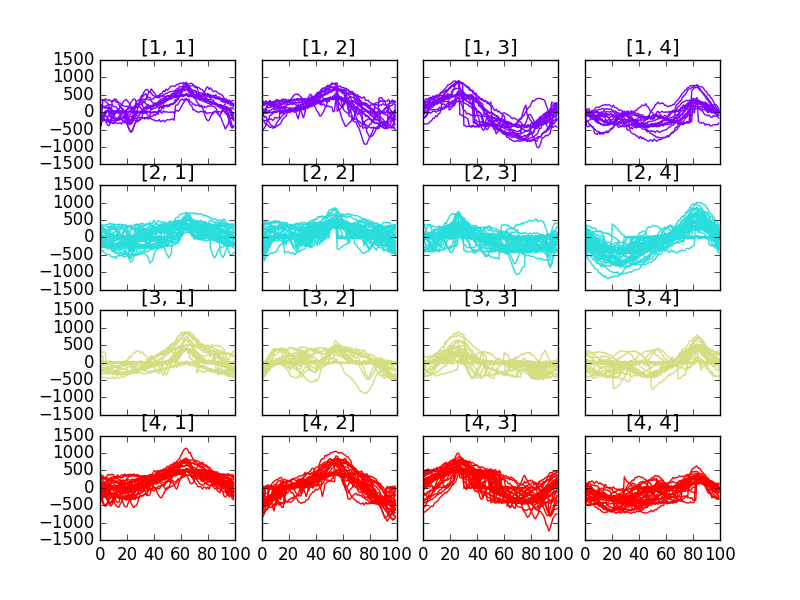
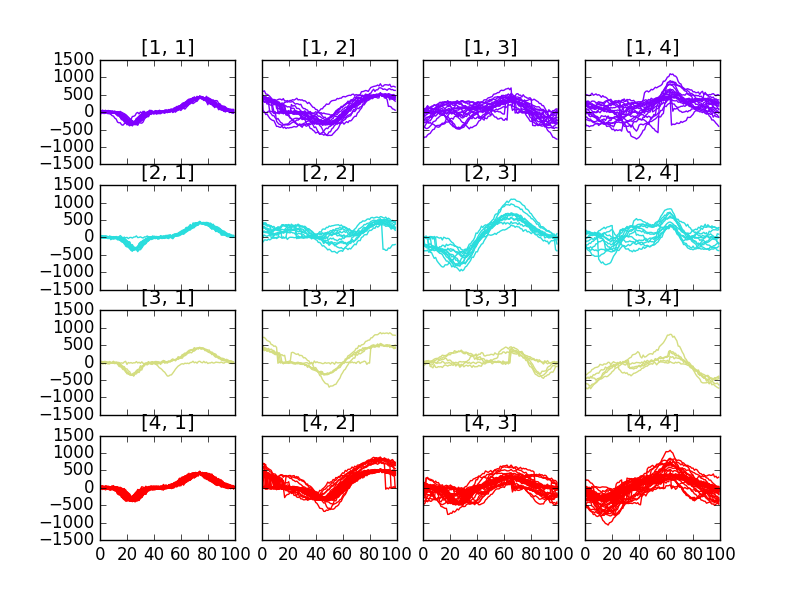
delete colvolution
delete convolution, use original spike location

diff --git a/data_initialization_spikeSorting.py b/data_initialization_spikeSorting.py
@@ -4,7 +4,8 @@ import random as rand
 from matplotlib import pyplot as plt
 from matplotlib.pyplot import cm 
 from peak_detect import detect_peaks
-
+import sys
+sys.dont_write_bytecode = True
 
 def spike_timeline_generator(time,interval_parameter,spike_len):
 # Initilization
@@ -105,7 +106,7 @@ def multi_electrons_signal_generator(num_cell,num_electron,spike_shape_parameter
 	
 	# initialize list to store timeline for each cell
 	timeline_list=[]
-
+	num_spike=0
 	for i in range(num_cell):
 
 		# Generate different timeline for different cell
@@ -114,6 +115,7 @@ def multi_electrons_signal_generator(num_cell,num_electron,spike_shape_parameter
 		
 		# store timeline to list
 		timeline_list.append(cell_timeline)
+		num_spike=num_spike+len(cell_timeline)-1
 		
 		# generate signal for each cell of each electron
 		
@@ -144,12 +146,12 @@ def multi_electrons_signal_generator(num_cell,num_electron,spike_shape_parameter
 		signal=signal_matrix.sum(axis=0)
 	
 
-	return signal,timeline_list,signal_matrix,delay_matrix
+	return signal,timeline_list,signal_matrix,delay_matrix,num_spike
 
 
-def plot_data(num_cell,num_electron,signal_matrix,signal,spike_shape_parameter,boolean,spike_len):
+def plot_data(num_cell,num_electron,signal_matrix,signal,spike_shape_parameter,boolean,spike_len,plot_size):
 
-
+	
 	color1=cm.rainbow(np.linspace(0,1,num_cell))
 
 	num_eachElectron=boolean.sum(axis=0)
@@ -162,6 +164,7 @@ def plot_data(num_cell,num_electron,signal_matrix,signal,spike_shape_parameter,b
 		for j in range(num_cell):
 			if(boolean[j,i]!=0):
 				signal_block=np.array(signal_matrix[j,i])
+				signal_block=signal_block[0:plot_size]
 					#signal=signal[0:10000]
 			else:
 				signal_block=0
@@ -176,6 +179,7 @@ def plot_data(num_cell,num_electron,signal_matrix,signal,spike_shape_parameter,b
 	f2,ax2=plt.subplots(num_electron,sharex=True, sharey=True)
 	for i in range(num_electron):
 		electron_signal=signal[i]
+		electron_signal=electron_signal[0:plot_size]
 		ax2[i].plot(electron_signal,color='b')
 		ax2[i].set_title('Signals of Electron %s' %(i))
 		
@@ -213,10 +217,46 @@ def plot_data(num_cell,num_electron,signal_matrix,signal,spike_shape_parameter,b
 
 
 
+def process_aligned_signal2(signal,timeline_list,num_spike,spike_len):
+
+	# initialization
+	num_electron=signal.shape[0]
+	num_cell=len(timeline_list)
+	aligned_spikes=np.zeros((num_spike,spike_len*num_electron))
+	label=[]
+	color=cm.rainbow(np.linspace(0,1,num_cell))
+
+	ite=0
+
+	for index in range(num_cell):
+		spike_loc=timeline_list[index]
+		spike_loc=spike_loc[0:-2]
+		for location in spike_loc:
+			aligned_spikes[ite]=signal[:,location:location+spike_len].flatten()
+			ite=ite+1
+			label.append(index)
+
+	# choose one row as rolling benchmark
+	k=rand.randint(0,num_spike-1)
+	max_location=aligned_spikes[k].argmax(axis=0)
+
+	print(label)
+	# roll other rows according to this information
+	for num in range(num_spike):
+		spike_max_location=aligned_spikes[num].argmax(axis=0)
+		distance=max_location-spike_max_location
+		aligned_spikes[num]=np.roll(aligned_spikes[num],distance)
+		plt.plot(aligned_spikes[num])
+		plt.show()
+	
+	return aligned_spikes,label
 
 
 
-def process_aligned_signal(signal,timeline_list,threshold,spike_len,window_height):
+
+
+
+def process_aligned_signal(signal,timeline_list,num_spike,threshold,spike_len,window_height):
 	
 
 	# get number of electron
@@ -229,23 +269,25 @@ def process_aligned_signal(signal,timeline_list,threshold,spike_len,window_heigh
 
 	# take convolution of the first row of matrix or not?...
 
-	i=0
-	spike1=signal[i]
-	signal_abs=map(abs,spike1)
+	# i=0
+	# spike1=signal[i]
+	# signal_abs=map(abs,spike1)
 	
 
-	weights = np.repeat(window_height, spike_len)
-	convolution=np.convolve(weights,signal_abs,'same')
-	convolution=convolution/spike_len
+	# weights = np.repeat(window_height, spike_len)
+	# convolution=np.convolve(weights,signal_abs,'same')
+	# convolution=convolution/spike_len
 
 	# get information of spike location
-	spike_loc=detect_peaks(convolution, mph=threshold, mpd=spike_len, show=False)
+	#spike_loc=detect_peaks(convolution, mph=threshold, mpd=spike_len, show=False)
 
 
 	# Initialization
-	m=len(spike_loc)
+	#m=len(spike_loc)
+	m=num_spike
 	n=spike_len
 	
+
 	# initialize empty 3D array for final aligned matrix
 	final_matrix=np.zeros((num_electron,m,n))
 	final_matrix_ecud=np.zeros((m,1))
@@ -343,7 +385,7 @@ class data_initialization_spikeSorting:
 
 	def signal_generator(self,overlap_level,noise_level,boolean):
 		
-		self.signal,self.timeline_list,self.signal_matrix,self.delay_matrix= \
+		self.signal,self.timeline_list,self.signal_matrix,self.delay_matrix,self.num_spike= \
 		multi_electrons_signal_generator(self.num_cell,self.num_electron,self.spike_shape_parameter,self.time,self.delay,overlap_level,noise_level,boolean,self.spike_len)
 
 		self.bool=boolean
@@ -353,19 +395,25 @@ class data_initialization_spikeSorting:
 
 	def align_signal(self):
 		#To do 
+		return self
+
+
+
+
+	def get_aligned_signal(self):
+
+		self.alinged_spikes,self.label=process_aligned_signal2(self.signal,self.timeline_list,self.num_spike,self.spike_len)
 
 		return self
 
 
-	def get_aligned_signal(self,threshold=80,window_height=2):
-
-		self.aligned_matrix_3D,self.aligned_matrix_2D,self.spike_loc=process_aligned_signal(self.signal,self.timeline_list,threshold,self.spike_len,window_height)
-		
-		return self
+	# def get_aligned_signal(self,threshold=80,window_height=2):
+	# 	self.aligned_matrix_3D,self.aligned_matrix_2D,self.spike_loc=process_aligned_signal(self.signal,self.timeline_list,threshold,self.spike_len,window_height)
+	# 	return self
 
 
 	def plot(self):
-		plot_data(self.num_cell,self.num_electron,self.signal_matrix,self.signal,self.spike_shape_parameter,self.bool,self.spike_len)
+		plot_data(self.num_cell,self.num_electron,self.signal_matrix,self.signal,self.spike_shape_parameter,self.bool,self.spike_len,plot_size=1500)
 
 
 

diff --git a/main.py b/main.py
@@ -4,46 +4,46 @@ from Kmeans_spikeDetection import Kmeans_spikeDetection
 from data_initialization_spikeSorting import data_initialization_spikeSorting
 from sklearn import cluster, datasets
 from matplotlib import pyplot as plt
+import sys
 
 def main():
+	sys.dont_write_bytecode = True
 
 # initialize data
-	num_cell=4
-	num_electron=4
+	num_cell=2
+	num_electron=2
 	overlap_level=300
 	noise_level=5
 
-	data=data_initialization_spikeSorting(num_cell=num_cell,num_electron=num_electron,time=30000,delay=False)
+	data=data_initialization_spikeSorting(num_cell=num_cell,num_electron=num_electron,time=3000,delay=False)
 	data.data_init()
 	
-	boolean=np.array([[1,1,1,1],[0,1,1,1],[0,0,1,1],[0,0,0,1]])
+	boolean=np.array([[1,1,1,1],[1,1,1,1],[1,1,1,1],[1,1,1,1]])
 
-	boolean=np.ones((num_cell,num_electron))
-
-
+	#boolean=np.ones((num_cell,num_electron))
 	data.signal_generator(overlap_level=overlap_level,noise_level=noise_level,boolean=boolean)
-	data.plot()
-	data.get_aligned_signal()
-
-##############################################################
-# Apply k-means
-
-	kMeans=Kmeans_spikeDetection(num_cluster=num_cell,iterations=50)
-
-	kMeans.fit(data.aligned_matrix_3D,distance_mode='SumEculidean')
-	kMeans.plotCluster(data.aligned_matrix_3D,kMeans.label)
-
-	kMeans.fit(data.aligned_matrix_3D,distance_mode='MinEculidean')
-	kMeans.plotCluster(data.aligned_matrix_3D,kMeans.label)
-
-	kMeans.fit(data.aligned_matrix_2D,distance_mode='Eculidean')
-	kMeans.plotCluster(data.aligned_matrix_3D,kMeans.label)
-
 	
-	k_means = cluster.KMeans(n_clusters=num_cell)
-	k_means.fit(data.aligned_matrix_2D)
-	kMeans.distance_mode='sklearn'
-	kMeans.plotCluster(data.aligned_matrix_3D,k_means.labels_)
+	data.plot()
+ 	data.get_aligned_signal()
+
+# ##############################################################
+# # Apply k-means
+
+# 	kMeans=Kmeans_spikeDetection(num_cluster=num_cell,iterations=50)
+
+# 	kMeans.fit(data.aligned_matrix_3D,distance_mode='SumEculidean')
+# 	kMeans.plotCluster(data.aligned_matrix_3D,kMeans.label)
+
+# 	kMeans.fit(data.aligned_matrix_3D,distance_mode='MinEculidean')
+# 	kMeans.plotCluster(data.aligned_matrix_3D,kMeans.label)
+
+# 	kMeans.fit(data.aligned_matrix_2D,distance_mode='Eculidean')
+# 	kMeans.plotCluster(data.aligned_matrix_3D,kMeans.label)
+
+# 	k_means = cluster.KMeans(n_clusters=num_cell)
+# 	k_means.fit(data.aligned_matrix_2D)
+# 	kMeans.distance_mode='sklearn'
+# 	kMeans.plotCluster(data.aligned_matrix_3D,k_means.labels_)
 	
 
 

diff --git a/align.py b/align.py
@@ -1,0 +1,30 @@
+def process_aligned_signal(signal,timeline_list,num_spike,spike_len):
+	
+	# initialization
+	num_electron=signal.shape[0]
+	num_cell=len(timeline_list)
+	aligned_spike=np.zeros((num_spike,spike_len*num_electron))
+	label=[]
+	i=0
+
+	for index in range(num_cell):
+		spike_loc=timeline_list[index,0:-2]
+
+		for location in spike_loc:
+			aligned_spike[i]=signal[:,location:location+spike_len].flatten()
+			i=i+1
+			label.append(index)
+
+	# choose one row as rolling benchmark
+	k=rand.randint(0,num_spike)
+	max_location=aligned_spikes[k].argmax(axis=0)
+
+	# roll other rows according to this information
+	for i in range(num_spike):
+		spike_max_location=alinged_spikes[i].argmax(axis=0)
+		distance=max_location-spike_max_location
+		aligned_spikes[i]=np.roll(aligned_spikes[i],distance)
+
+	return aligned_spike,label
+
+

diff --git a/Kmeans_spikeDetection.py b/Kmeans_spikeDetection.py
@@ -3,7 +3,8 @@ import random as rand
 from scipy.spatial import distance
 from matplotlib.pyplot import cm 
 from matplotlib import pyplot as plt
-
+import sys
+sys.dont_write_bytecode = True
 
 
 def init_centroids(X,num_cluster):

diff --git a/peak_detect.py b/peak_detect.py
@@ -2,6 +2,8 @@
 
 from __future__ import division, print_function
 import numpy as np
+import sys
+sys.dont_write_bytecode = True
 
 __author__ = "Marcos Duarte, https://github.com/demotu/BMC"
 __version__ = "1.0.4"
